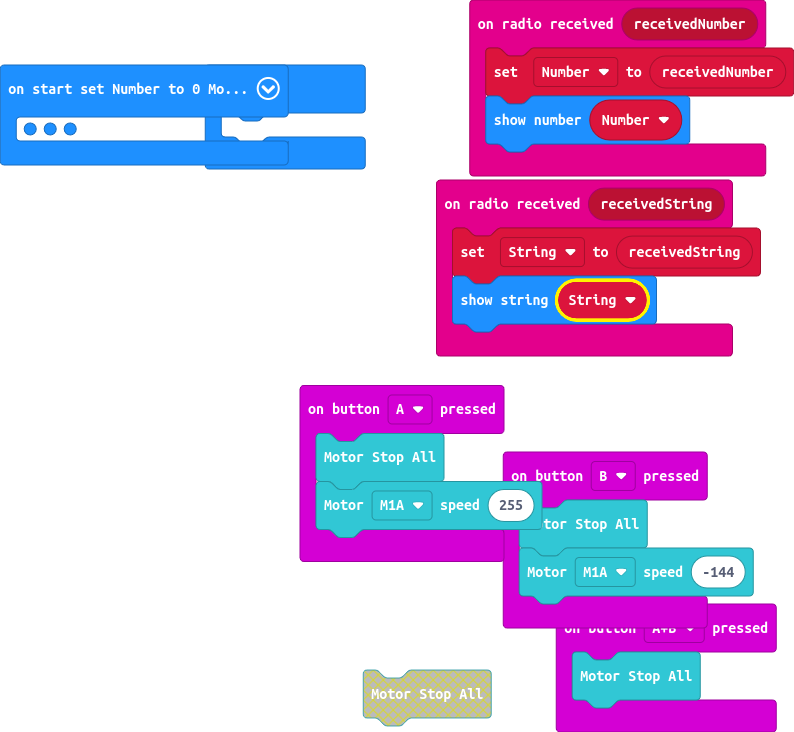
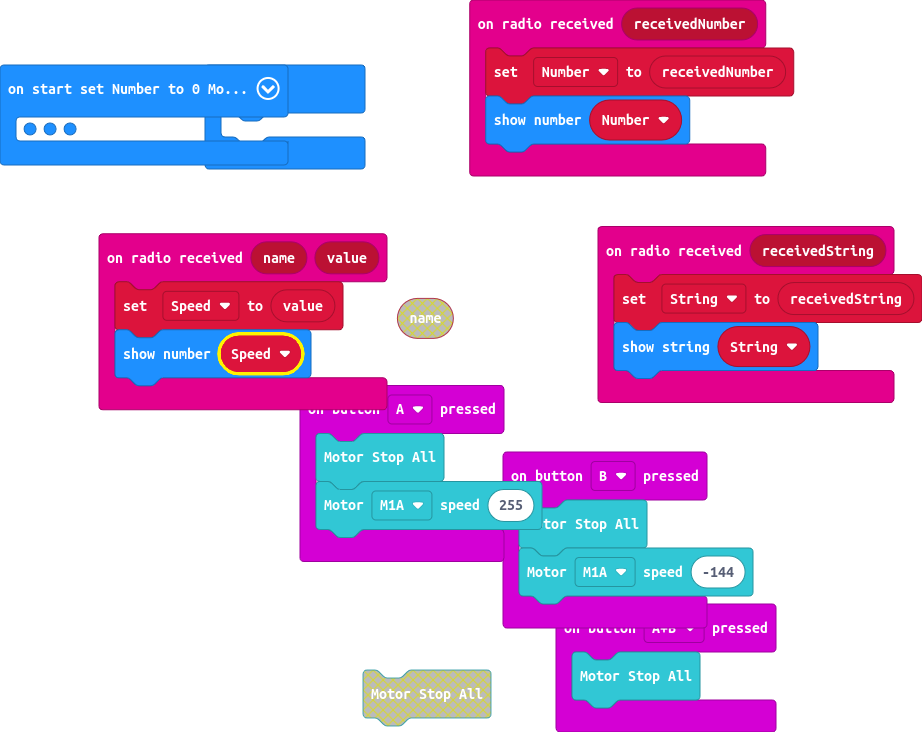
Update main.blocks, main.ts

diff --git a/main.ts b/main.ts
@@ -17,6 +17,11 @@ input.onButtonPressed(Button.B, function () {
     robotbit.MotorStopAll()
     robotbit.MotorRun(robotbit.Motors.M1A, -144)
 })
+radio.onReceivedValue(function (name, value) {
+    Speed = value
+    basic.showNumber(Speed)
+})
+let Speed = 0
 let String2 = ""
 let Number2 = 0
 Number2 = 0
